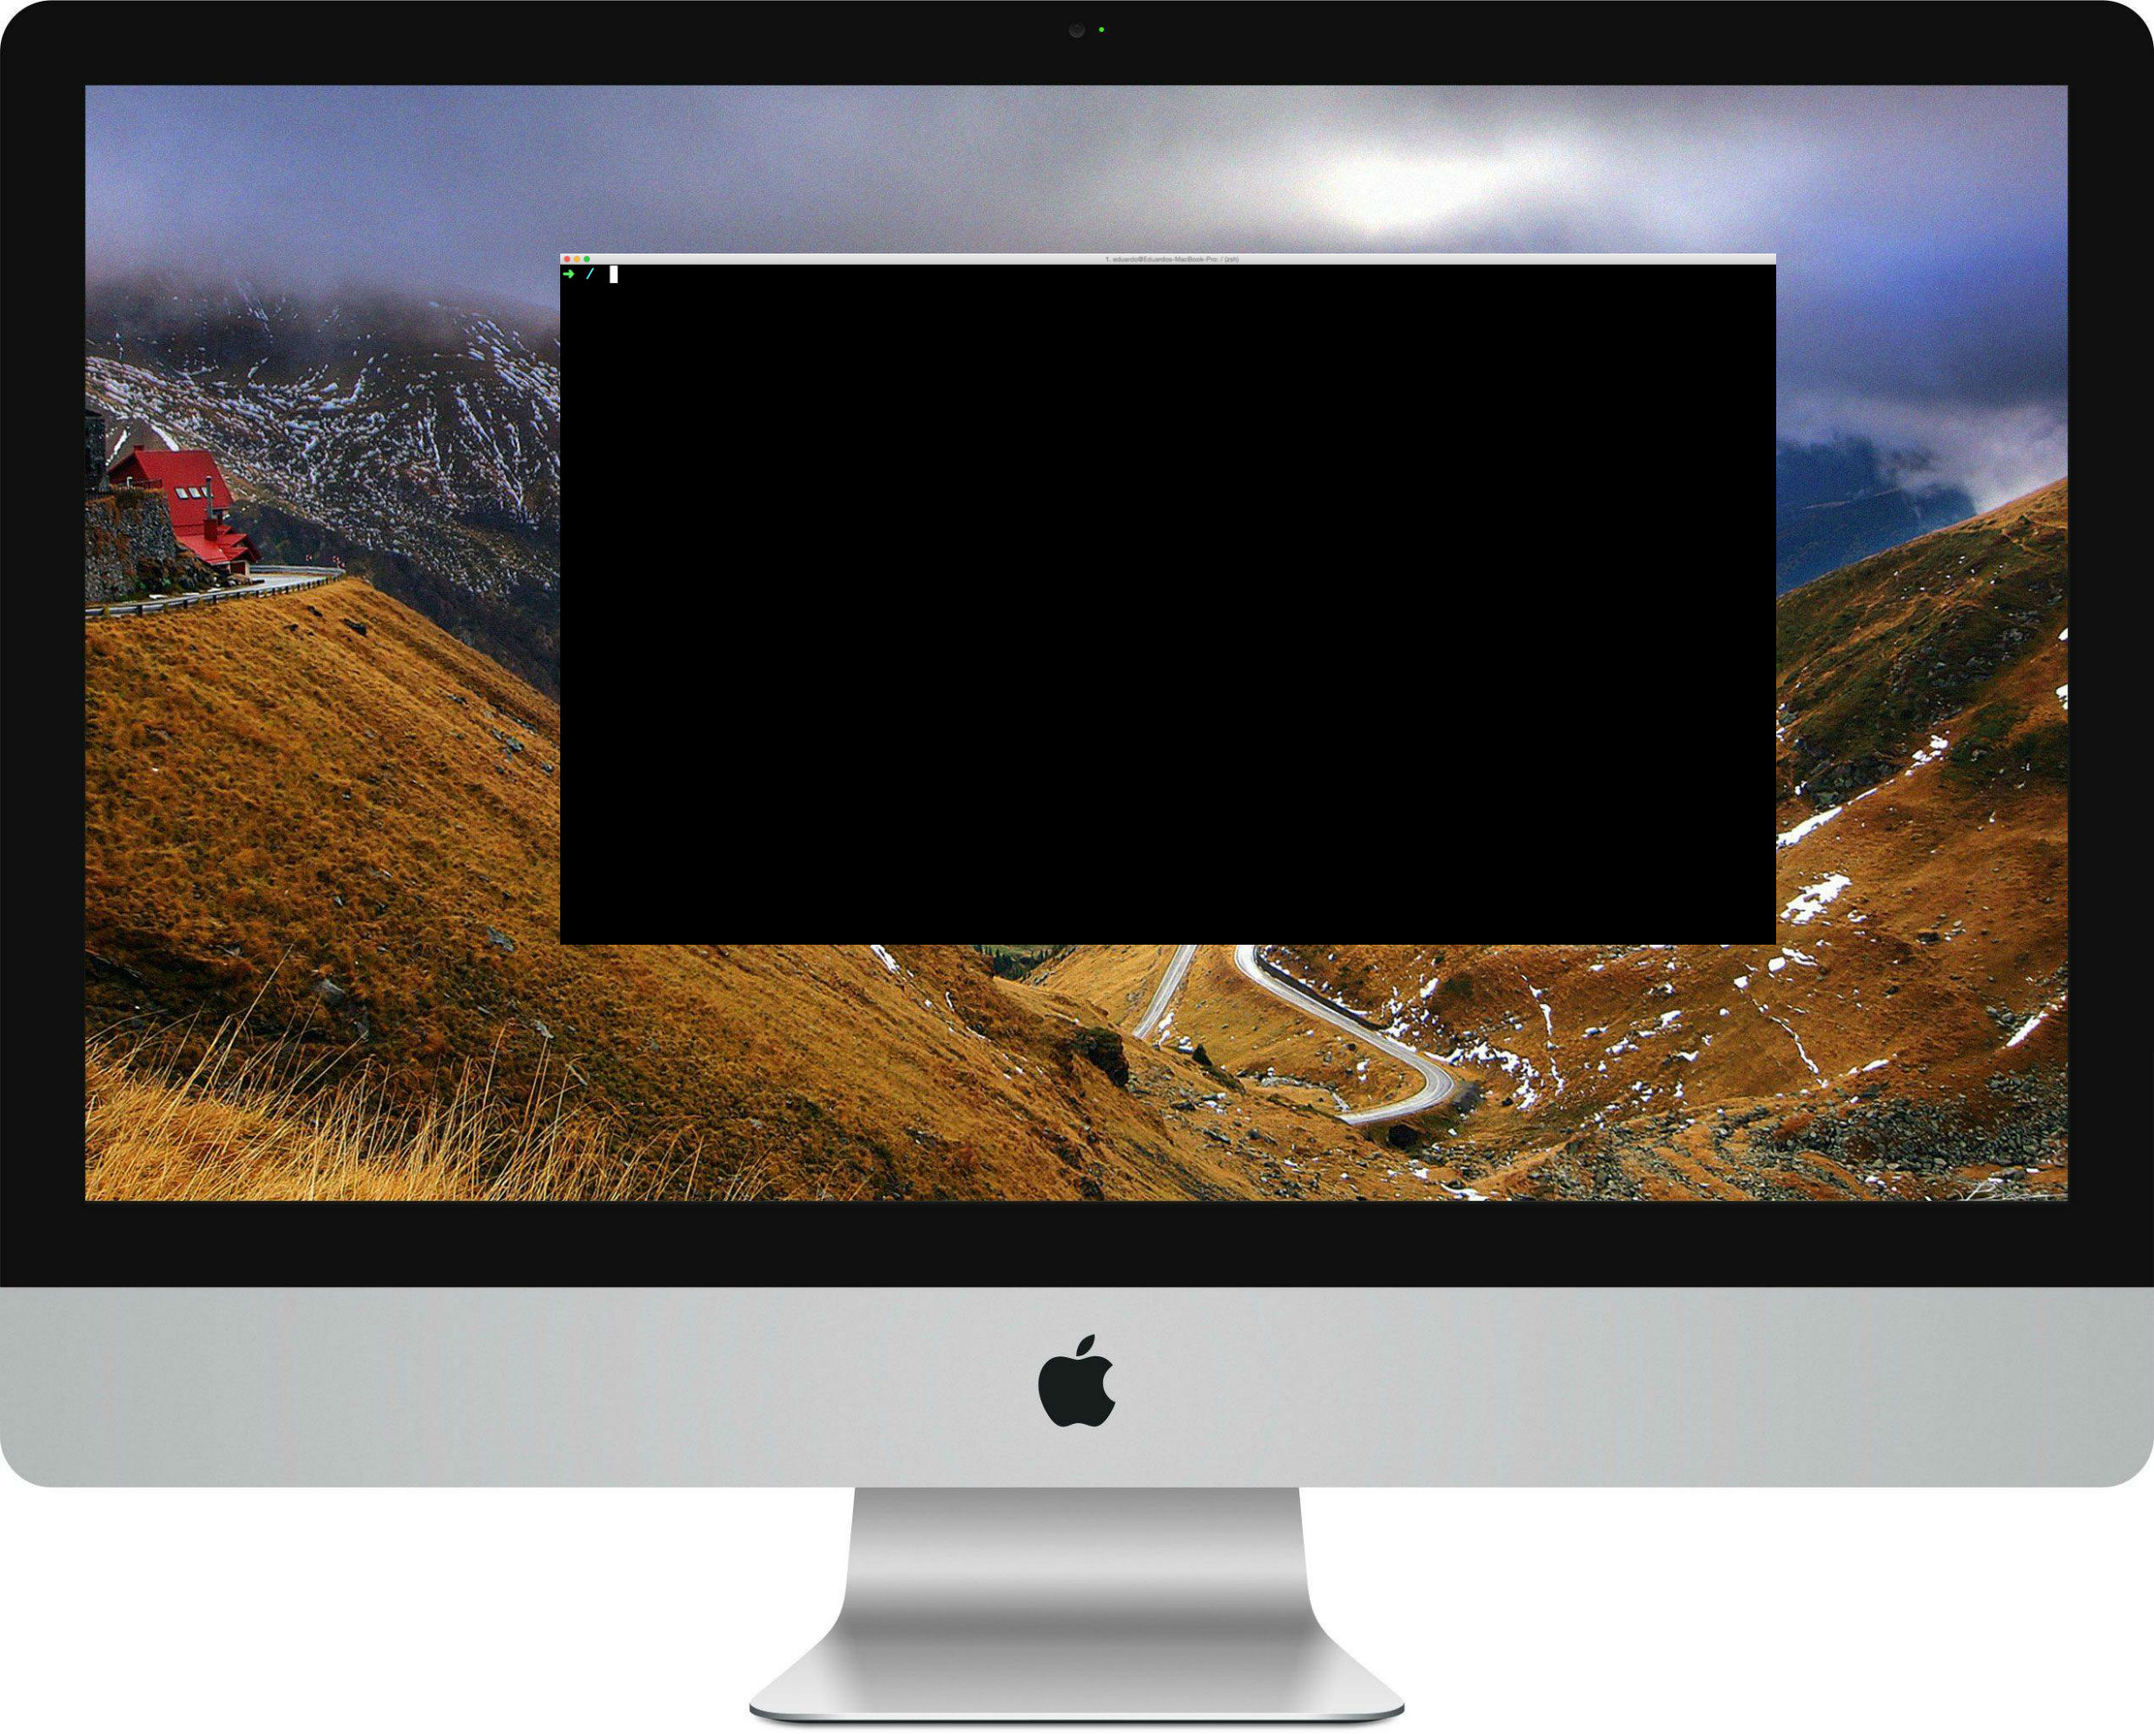
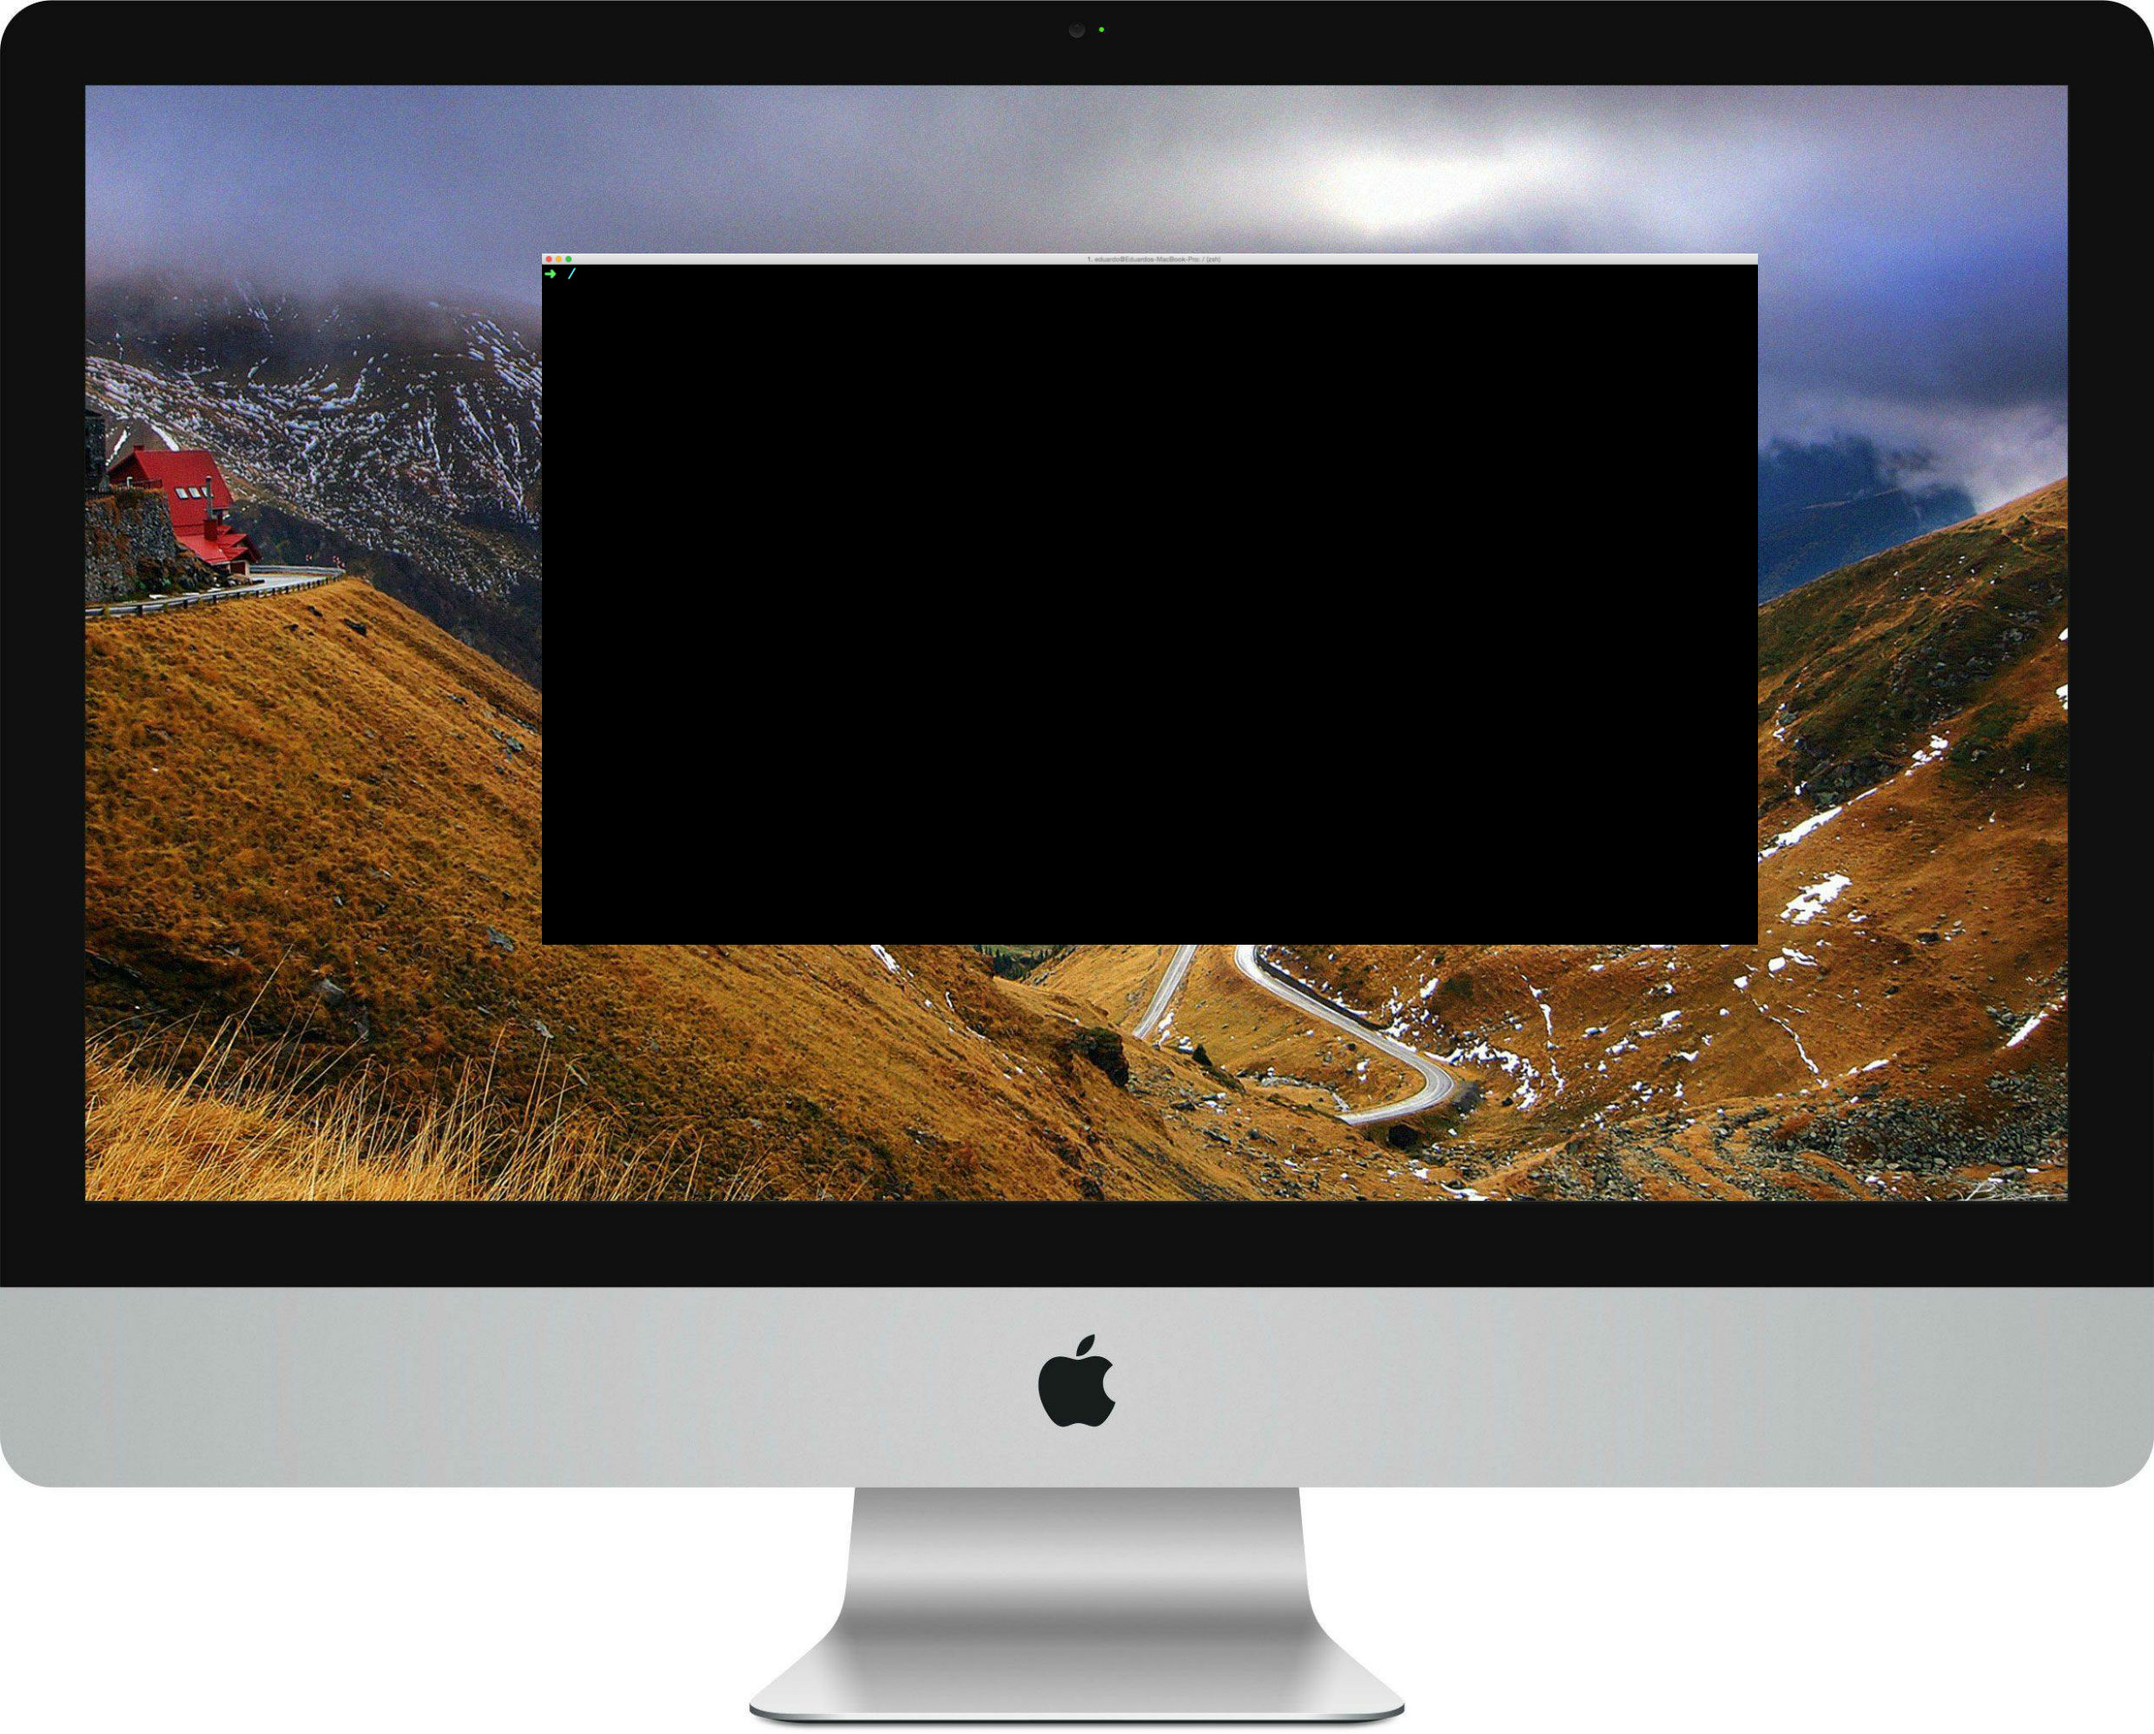
fixes image center for mobile and layout of console image

Changed region(s): [[0.2484, 0.1242, 0.2794, 0.5588], [0.8073, 0.1552, 0.8383, 0.5588]]

diff --git a/index.html b/index.html
@@ -134,17 +134,17 @@
 						<!-- Typed.js Begin -->
 
 						<div style="margin-top: 350px; white-space:pre; z-index:998">
-								<h2 style="z-index: 999;">
+								<h1 style="z-index: 999;">
 									<span class="element color-green-light" style="font-family: ‘Lucida Console’, Monaco, monospace; z-index: 1000;">
 									</span>
-								</h2>
+								</h1>
 
 						</div>
 
 						<!-- Typed.js End -->
 					</div>
 				    <div id="mac" class="mac">
-				    	<div style="margin-left: 215px; padding-top: 135px;">
+				    	<div style="margin-left: 270px; padding-top: 135px;">
 				    		<h5 class="color-green-light" style="font-family: ‘Lucida Console’, Monaco, monospace;">
 								<!-- <span class="element color-green-light" style="font-family: ‘Lucida Console’, Monaco, monospace; z-index: 1000;"> -->
 									Eduardo Moreno <br><br>

diff --git a/css/skin.css b/css/skin.css
@@ -2611,7 +2611,7 @@ a.disabled .text-line{
 [22. Resolution Media Queries]
 */
 
-@media only screen and (min-width: 768px) and (max-width: 1600px){
+@media only screen and (max-width: 1600px){
     .hero-5-about-2 > .row:after{
         background-position: left;
     }
